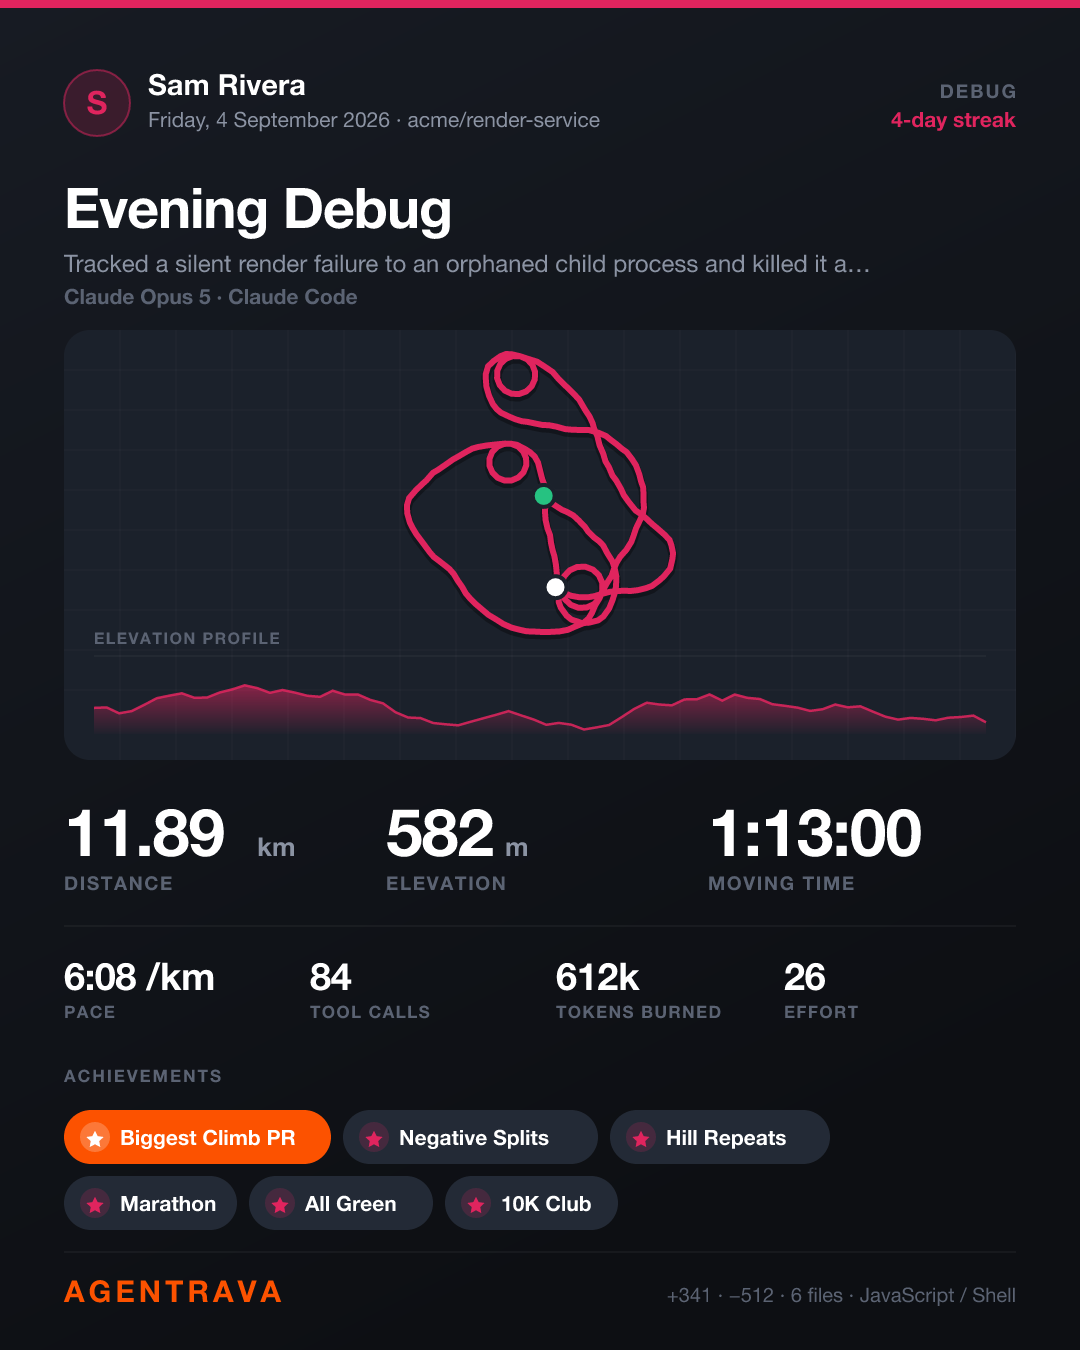
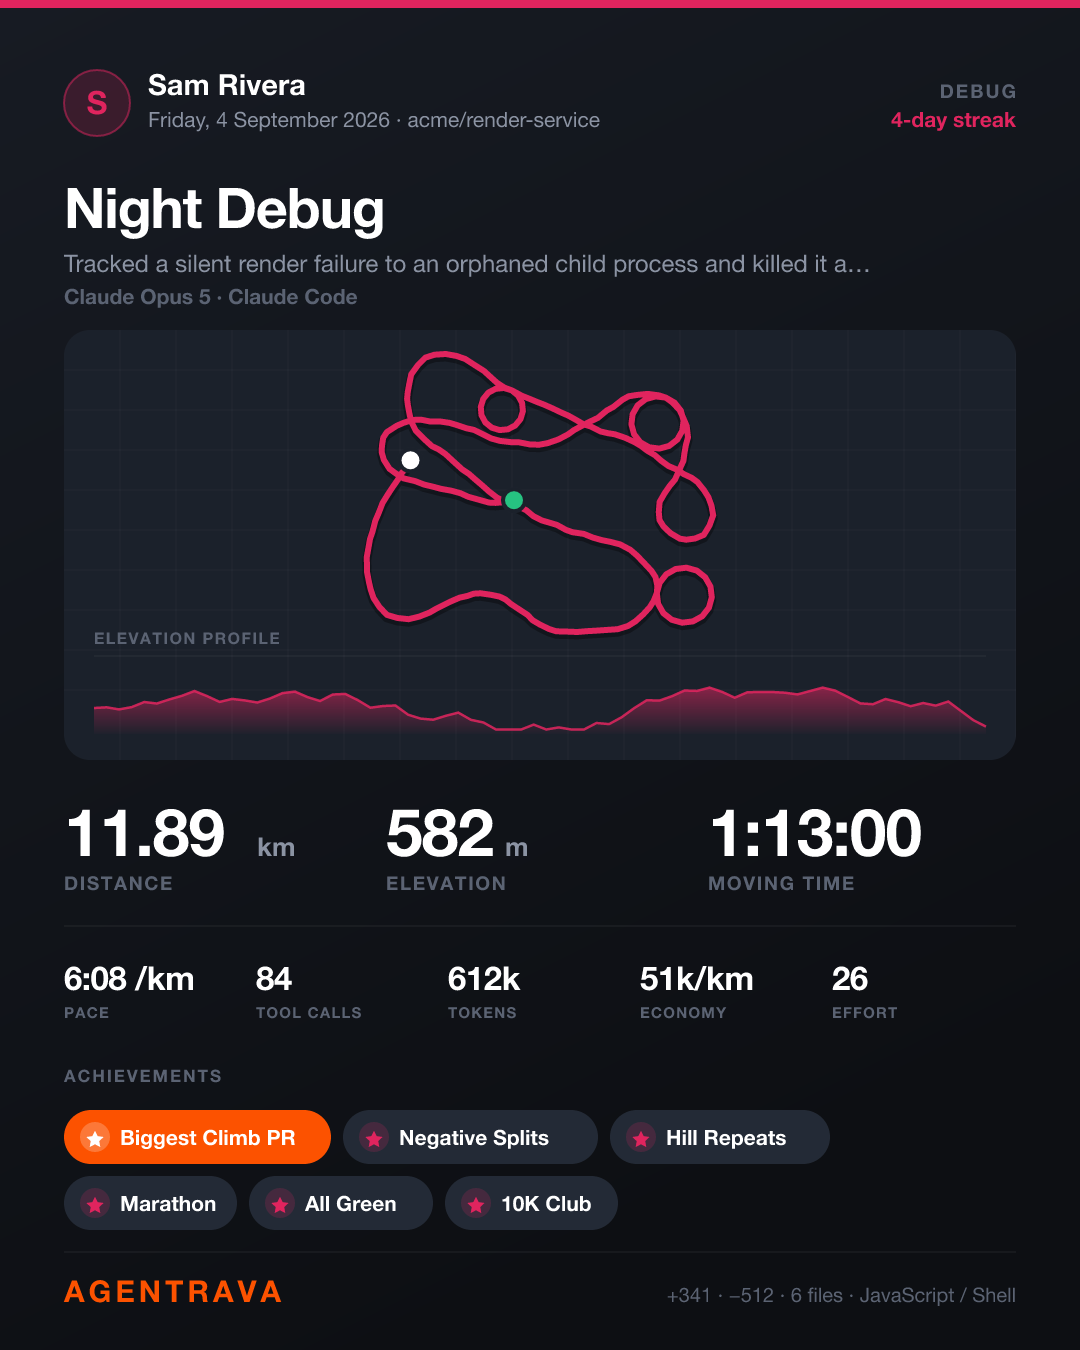
Add Economy: tokens per km
Raw token count already appeared on the card but cannot rank efficiency — it
correlates 0.72 with distance, so it mostly reports how big a session was.
Tokens per km correlates 0.08 with distance, making it size-independent and
comparable between sessions: 83k/km at p10 to 435k/km at p90 across 142
sessions.

Documented with its limits: it measures token cost per unit of volume, not of
value, and Cursor records tokens for only 4% of sessions so it does not
compare across tools.

diff --git a/src/card.js b/src/card.js
@@ -127,8 +127,8 @@ function bigStat(x, y, value, unit, label) {
 }
 function smallStat(x, y, value, label, color) {
   return `
-  <text x="${x}" y="${y}" fill="${color || C.ink}" font-size="38" font-weight="700" letter-spacing="-0.5">${esc(value)}</text>
-  <text x="${x}" y="${y + 28}" fill="${C.dim}" font-size="17" font-weight="600" letter-spacing="1.4">${esc(label.toUpperCase())}</text>`;
+  <text x="${x}" y="${y}" fill="${color || C.ink}" font-size="33" font-weight="700" letter-spacing="-0.5">${esc(value)}</text>
+  <text x="${x}" y="${y + 28}" fill="${C.dim}" font-size="15" font-weight="600" letter-spacing="1.2">${esc(label.toUpperCase())}</text>`;
 }
 const CHIP_SIZE = 21;
 const chipLabel = (t) => fit(t, CHIP_SIZE, 300, true);
@@ -276,9 +276,10 @@ export function renderCard(a, { badges = [], prs = [], streak = 0, photo = null 
   <line x1="${P}" y1="926" x2="${W - P}" y2="926" stroke="#ffffff" stroke-opacity="0.08"/>
 
   ${smallStat(P, 990, fmtPace(d.pace_min_per_km) + ' /km', 'Pace')}
-  ${smallStat(P + 246, 990, String(a.tool_calls), 'Tool calls')}
-  ${smallStat(P + 492, 990, fmtNum(a.tokens), 'Tokens burned')}
-  ${smallStat(P + 720, 990, String(d.effort), 'Effort', d.effort >= 80 ? '#e0245e' : C.ink)}
+  ${smallStat(P + 192, 990, String(a.tool_calls), 'Tool calls')}
+  ${smallStat(P + 384, 990, fmtNum(a.tokens), 'Tokens')}
+  ${smallStat(P + 576, 990, d.tokens_per_km ? fmtNum(d.tokens_per_km) + '/km' : '—', 'Economy')}
+  ${smallStat(P + 768, 990, String(d.effort), 'Effort', d.effort >= 80 ? '#e0245e' : C.ink)}
 
   ${hasChips ? `<text x="${P}" y="1082" fill="${C.dim}" font-size="17" font-weight="700" letter-spacing="2">ACHIEVEMENTS</text>` : ''}
   ${chipsSvg}

diff --git a/src/metrics.js b/src/metrics.js
@@ -83,6 +83,11 @@ export function derive(a) {
     effort,                                          // "suffer score", 0-100
     net_lines: a.lines_added - a.lines_removed,
     tokens_per_min: a.tokens / minutes,
+    // Economy: token cost per unit of ground covered. Raw token count mostly
+    // tracks how big a session was (r=0.72 with distance); dividing it out gives
+    // a size-independent figure (r=0.08) that is actually comparable between
+    // sessions — the analogue of running economy rather than total calories.
+    tokens_per_km: distance_km > 0.2 ? a.tokens / distance_km : 0,
   };
 }
 

diff --git a/README.md b/README.md
@@ -20,6 +20,7 @@ bragging card — route map, elevation profile, headline stats, badges, PRs.
 | Cadence | tool calls per minute | `tool_calls / minutes` |
 | Suffer score | Effort, 0–100 | cadence, elevation, tokens and retries |
 | Calories | tokens burned | input + cache writes + output |
+| Economy | tokens per km | `tokens / distance` — lower is leaner |
 
 Every weight above is **fitted to a sample of 36 real sessions**, not guessed.
 Churn alone left the median session at 0.00 km — most sessions read and search far
@@ -47,6 +48,15 @@ Measured across 134 real sessions:
 | Distance | duration | 0.77 |
 | Elevation | errors recovered | **0.91** |
 | Elevation | files changed | 0.88 |
+
+**Raw tokens cannot rank efficiency.** They correlate 0.72 with distance, so the
+number mostly says how big a session was. Dividing by distance gives Economy,
+which correlates 0.08 with distance — size-independent, and therefore actually
+comparable between sessions. Across 142 sessions it spans 83k/km at the tenth
+percentile to 435k/km at the ninetieth, a 5.3x spread. It measures token cost per
+unit of *volume*, not per unit of *value*: a session that finds the right answer
+in five calls scores badly on it. And Cursor records tokens for only 4% of
+sessions, so it is not comparable across tools.
 
 So distance is essentially *volume of activity* — 69% of it comes from the tool-call
 term, not churn — and elevation is essentially *friction*, 58% of it from errors.
